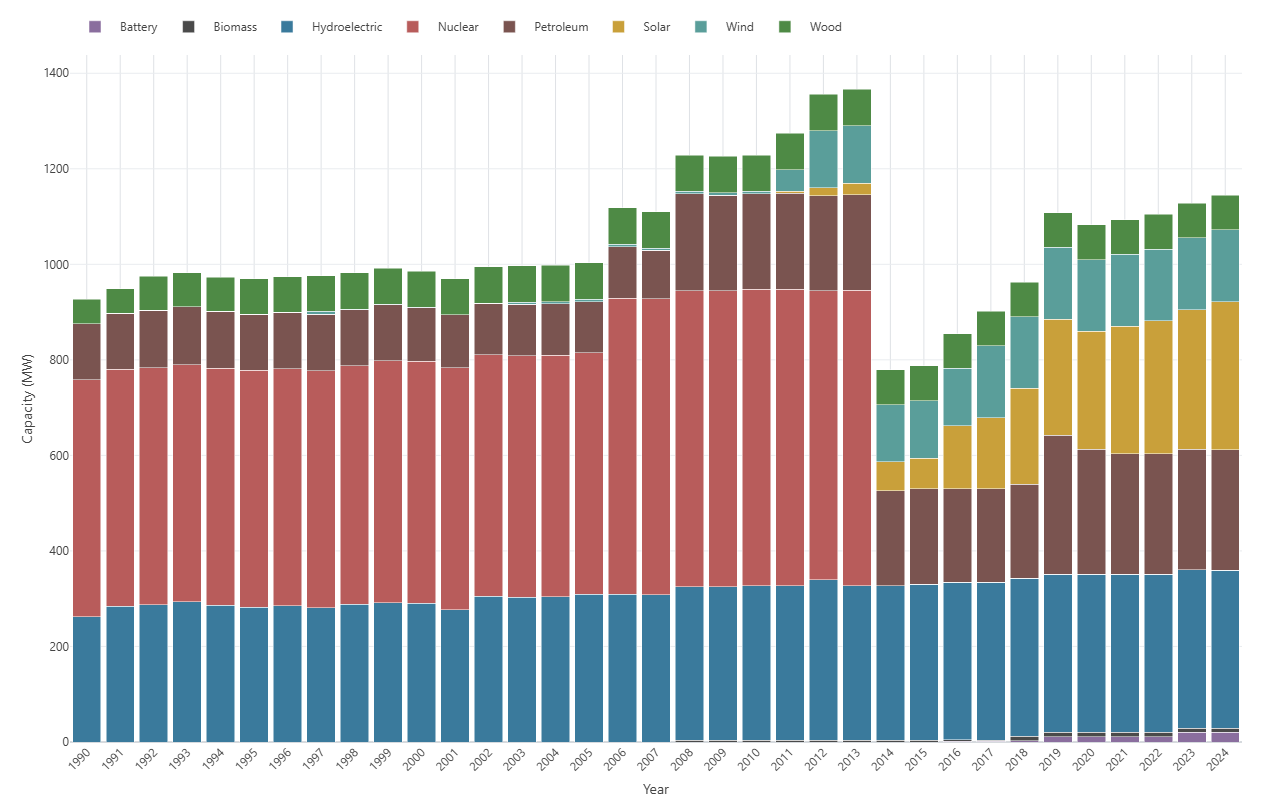
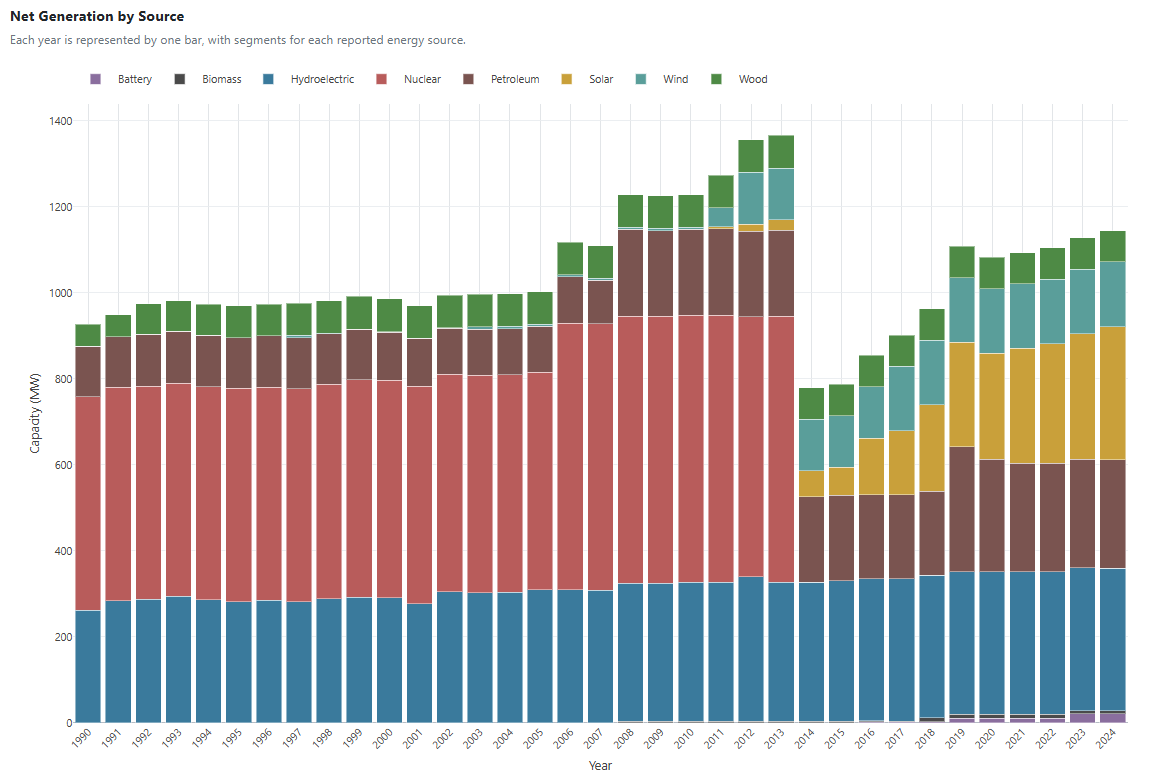
update screenshots

diff --git a/README.md b/README.md
@@ -17,8 +17,8 @@ This project is independent and not affiliated with the EIA.
 ### Vermont Yearly Net Generation By Source
 ![Yearly Generation By Source](screenshots/Vermont_net_generation_by_source.png)
 
-### 2024 National Renewable Energy Generation by Type
-![Net Generation](screenshots/2024_renewables_breakdown.png)
+### 2024 National Generation Capacity by Source
+![Net Generation](screenshots/2024_capacity_breakdown.png)
 
 ### 2024 State Net Trade Comparison
 ![Net Trade Comparison](screenshots/state_net_trade_comparison_2024.png)